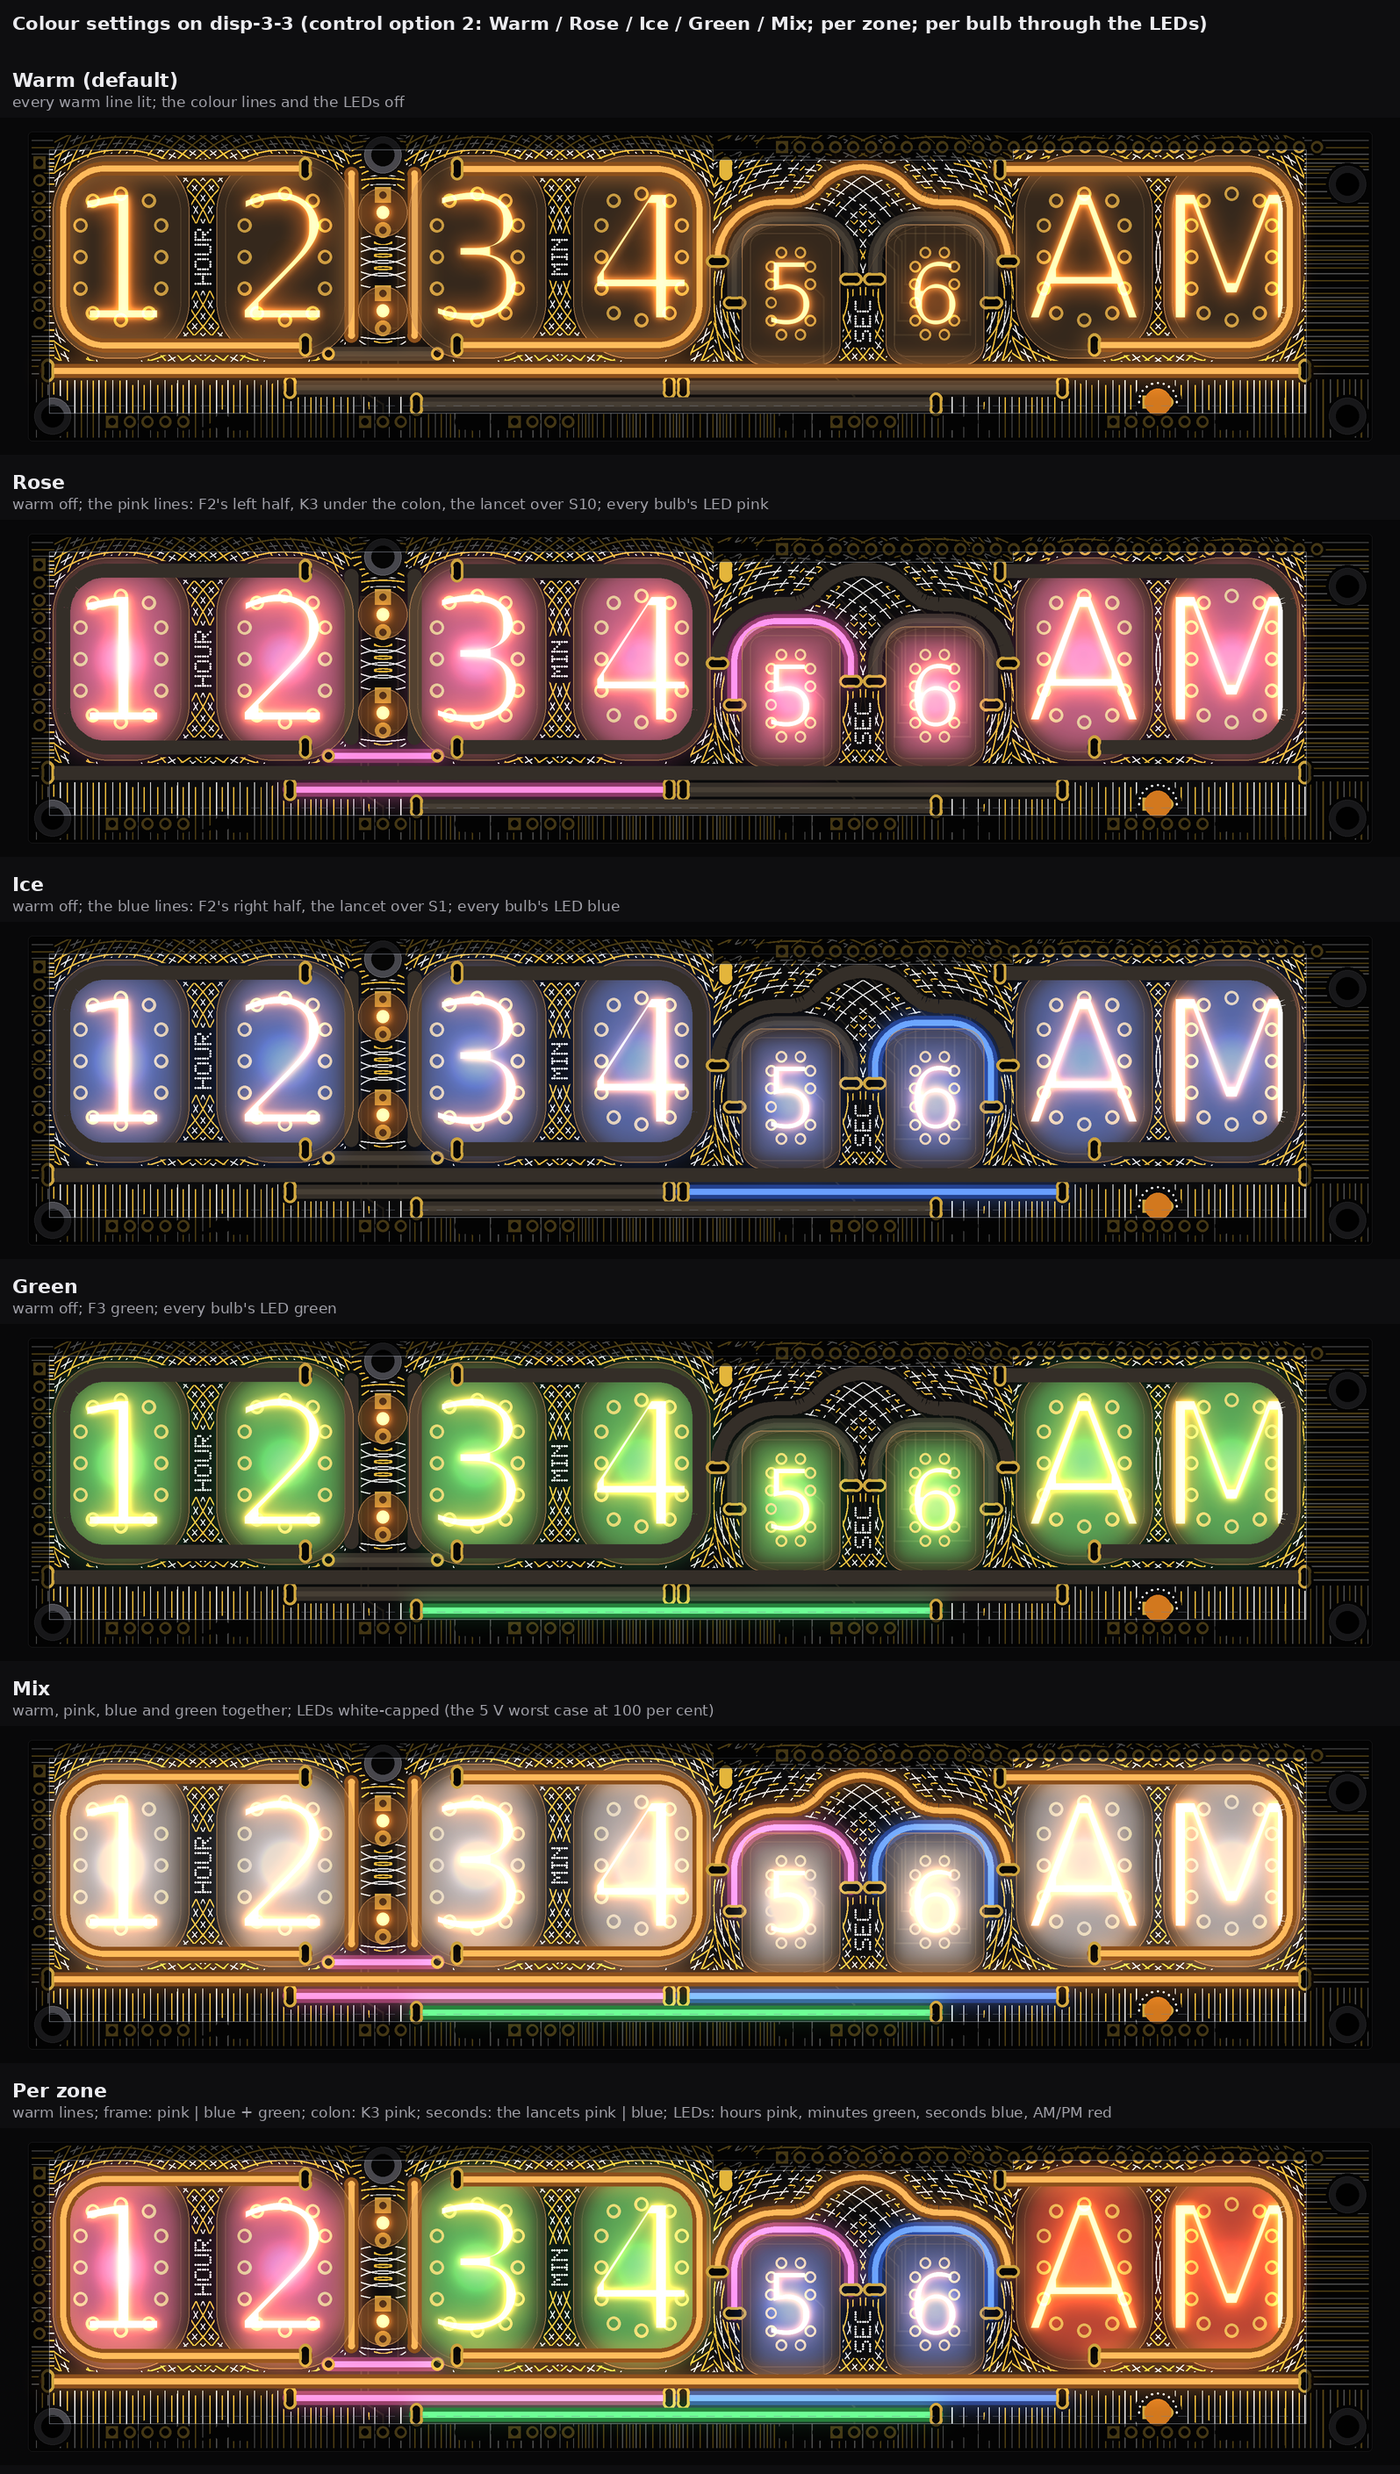
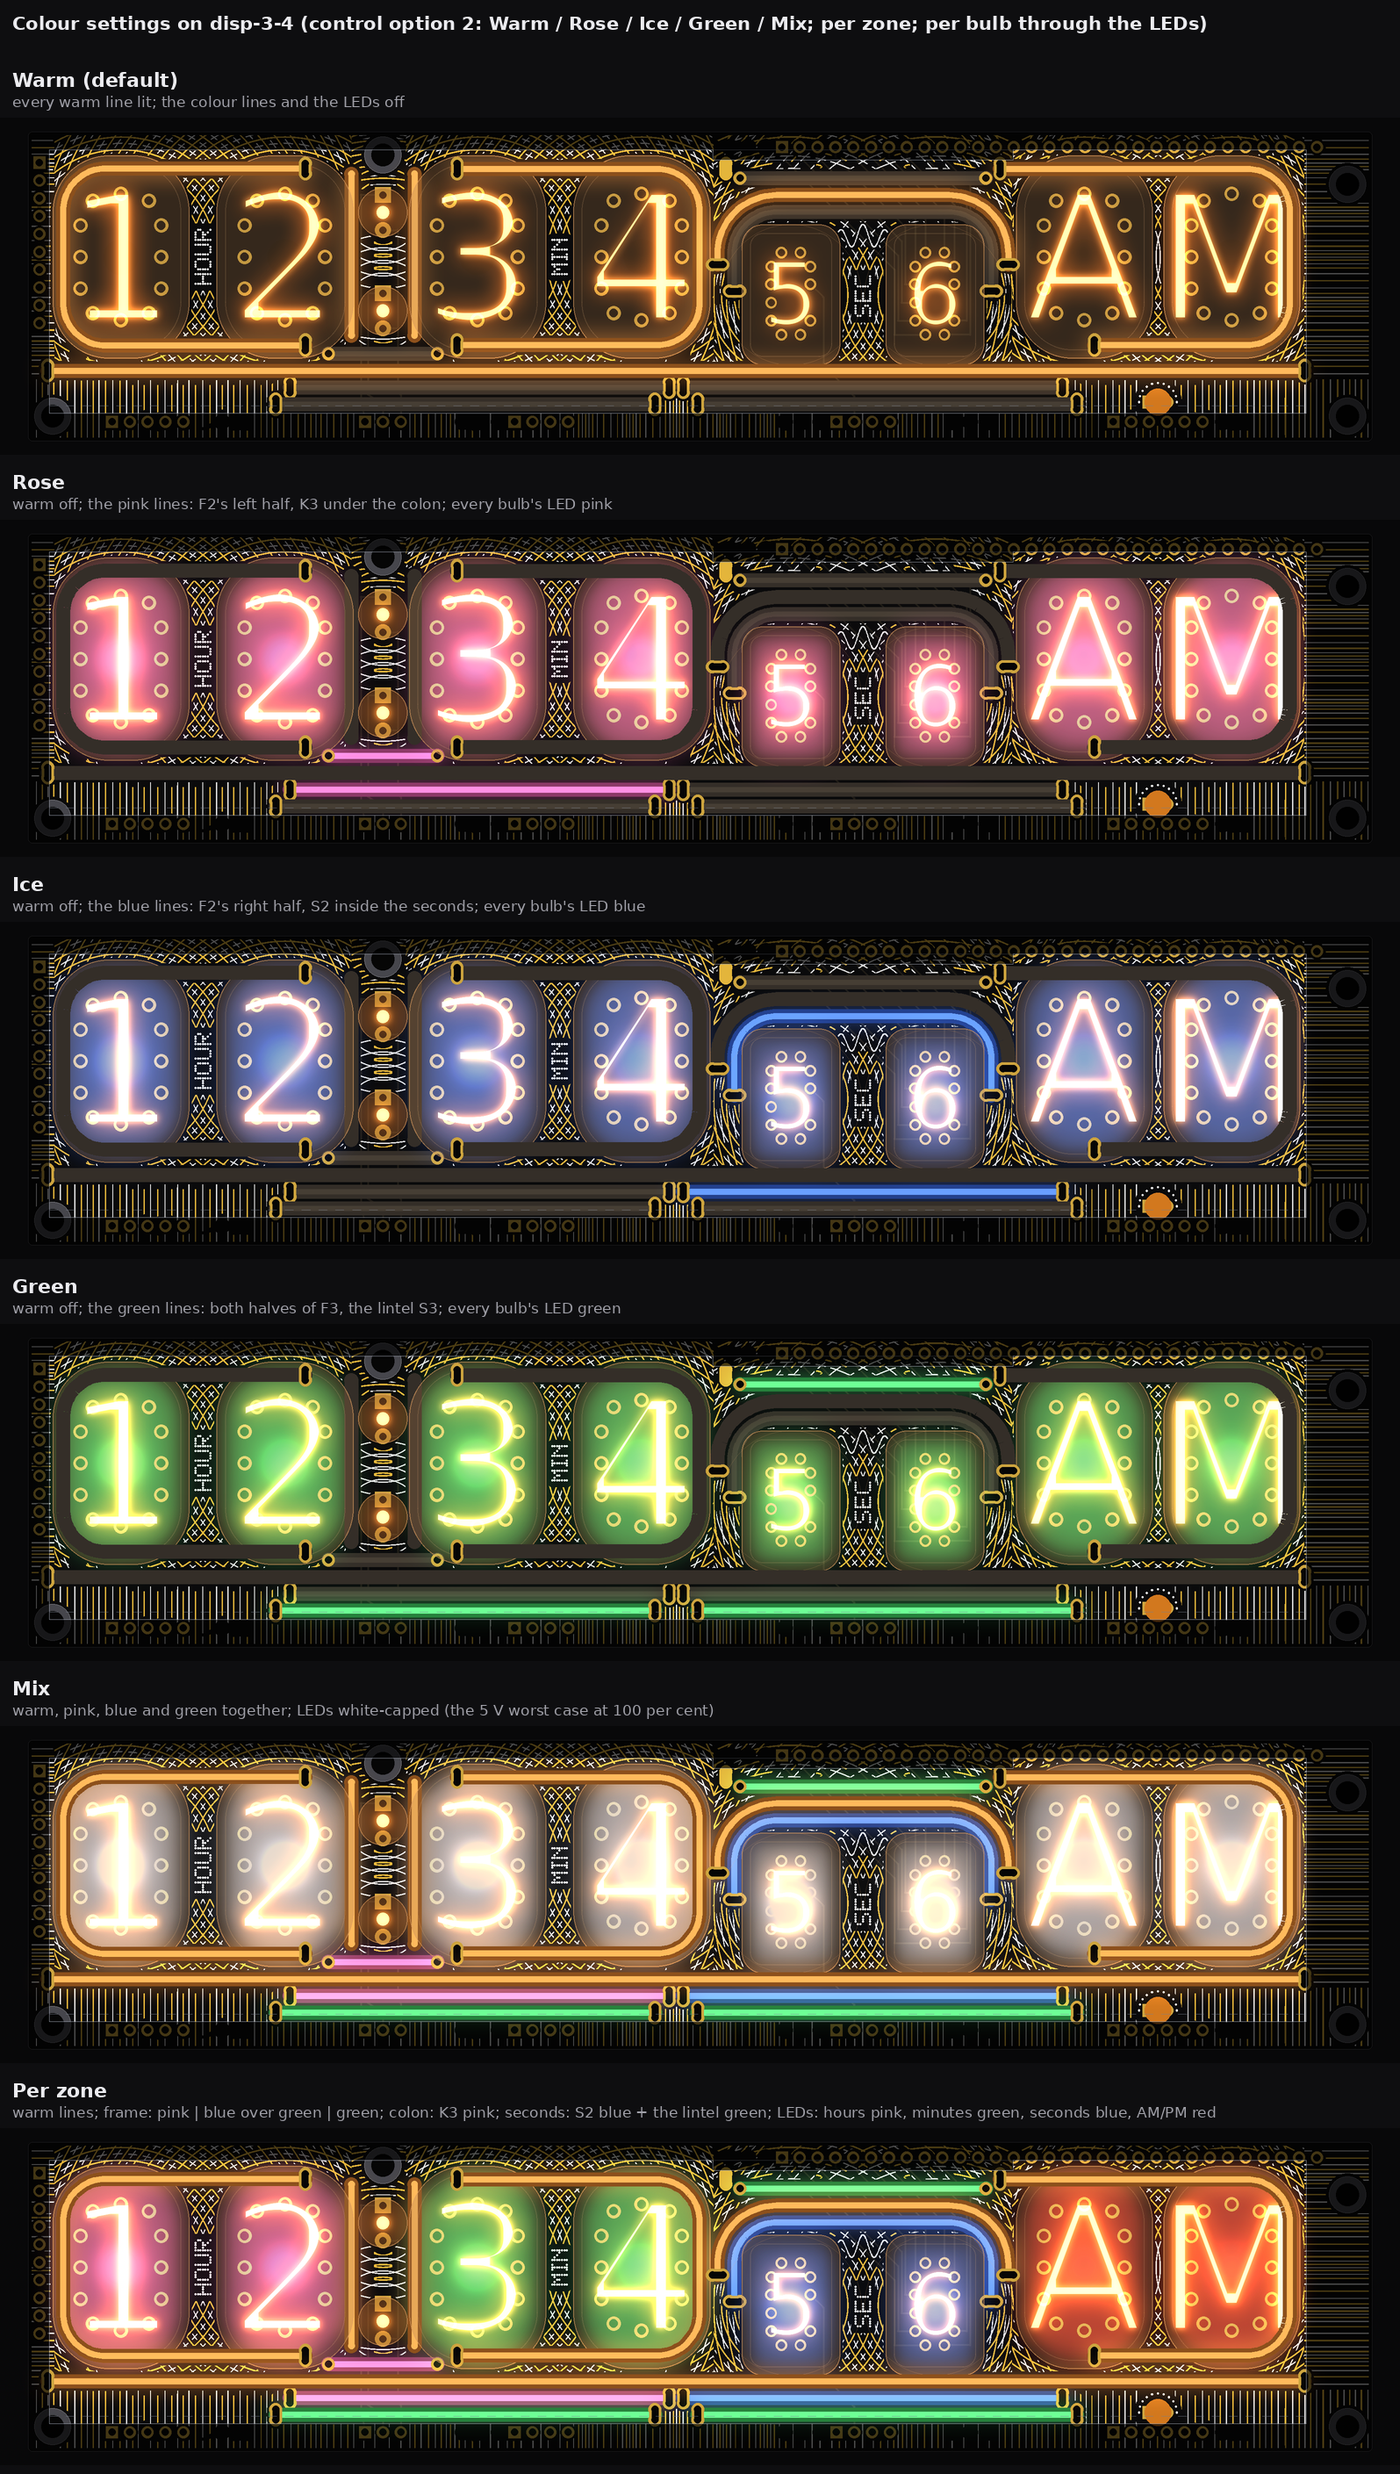
PCB/art: TS06 DISP final 3, disp-3-4: the lintel with F3 split in two 60 flex, green (drawings only)
F3 = 60 + 60 (80 + 80 hits the m lamp and XP21's 185 V pad), split 6.1 so its
slots clear F2's; F3R driven from the spare XP12.13; sill 1.1 lower as before.
colours.png and the contact sheet redone for the new pick.

Claude-Session: https://claude.ai/code/session_01WoV3gyAFgmtuk6W6Dr4bdA

diff --git a/PCB/art/TS06-DISP-final-3.md b/PCB/art/TS06-DISP-final-3.md
@@ -24,6 +24,13 @@ the router on it or the drawn raster (0.043 mm pixels); *inferred* is arithmetic
 * **Channels: 17, 18, 18 of 16.** Sharing one channel per colour brings every variant to **15**.
 * **5 V worst case: 832 / 852 / 852 mA**, and 640 / 660 / 660 mA with the LED cap.
 * **My pick: disp-3-3, the lancets.**
+* **Follow-up (the owner, 23:1x UTC): disp-3-4 is now the pick.** The owner chose the lintel (disp-3-2) and asked to keep F3,
+  extend it and split it too.
+  * **60 + 60 is the longest symmetric pair.** 80 + 80 runs into the m lamp and XP21's 185 V pad.
+  * Both halves stay green. Their split is 6.1 wide, so their slots clear F2's.
+  * The sill stays 1.1 lower, with no other case change.
+  * 19 channels one per line, 15 one per colour. 5 V 872 mA (680 with the cap).
+  * Section 5's last subsection.
 
 ## 1. Split F2 in two colours (all three variants)
 
@@ -124,17 +131,17 @@ with its legs at 100.60 / 137.17. Rules as before: body 2.0, 0.4 to pin pads, 0.
 
 ## 4. Channels and 5 V
 
-| | V1r-1 (approved) | disp-3-1 | disp-3-2 | disp-3-3 |
-|---|---|---|---|---|
-| DISP warm (H, colon Q1 + Q2, M, S, P, F) | 6 | 6 | 6 | 6 |
-| DISP colour lines | 3 (F2, S2, F3) | 5 (F2L, F2R, F3, K3, S2) | 6 (+ S3) | 6 (F2L, F2R, F3, K3, S2L, S2R) |
-| Fascia (new connector) | 6 | 6 | 6 | 6 |
-| **Channels, one per line** | **15** | **17** | **18** | **18** |
-| **Channels, one per colour (option a)** | 14 | **15** | **15** | **15** |
-| DISP filaments; 120 R on DRV (one per filament) | 10; 20 | 12; 22 | 13; 23 | 13; 23 |
-| DISP drive pins / wires | BL_A1 to A8 | + XP25.3, + K3's wire | + XP12.12 | + XP12.13 |
-| 5 V, Mix at 100 %, 20 mA a filament, LEDs full white | 792 mA, 79 % | 832 mA, 83 % | 852 mA, 85 % | 852 mA, 85 % |
-| 5 V with the LED cap (R + G + B <= 255) | 600 mA, 60 % | 640 mA, 64 % | 660 mA, 66 % | 660 mA, 66 % |
+| | V1r-1 (approved) | disp-3-1 | disp-3-2 | disp-3-3 | disp-3-4 |
+|---|---|---|---|---|---|
+| DISP warm (H, colon Q1 + Q2, M, S, P, F) | 6 | 6 | 6 | 6 | 6 |
+| DISP colour lines | 3 (F2, S2, F3) | 5 (F2L, F2R, F3, K3, S2) | 6 (+ S3) | 6 (F2L, F2R, F3, K3, S2L, S2R) | 7 (disp-3-2 with F3L, F3R) |
+| Fascia (new connector) | 6 | 6 | 6 | 6 | 6 |
+| **Channels, one per line** | **15** | **17** | **18** | **18** | **19** |
+| **Channels, one per colour (option a)** | 14 | **15** | **15** | **15** | **15** (16 with a white half) |
+| DISP filaments; 120 R on DRV (one per filament) | 10; 20 | 12; 22 | 13; 23 | 13; 23 | 14; 24 |
+| DISP drive pins / wires | BL_A1 to A8 | + XP25.3, + K3's wire | + XP12.12 | + XP12.13 | + XP12.12, + XP12.13 |
+| 5 V, Mix at 100 %, 20 mA a filament, LEDs full white | 792 mA, 79 % | 832 mA, 83 % | 852 mA, 85 % | 852 mA, 85 % | 872 mA, 87 % |
+| 5 V with the LED cap (R + G + B <= 255) | 600 mA, 60 % | 640 mA, 64 % | 660 mA, 66 % | 660 mA, 66 % | 680 mA, 68 % |
 
 *Inferred* from `TS06-DISP-final.md` section 3c: each filament adds 20 mA. The module is U14, 5 V, 1.0 A. XP12.11 stays spare.
 
@@ -205,7 +212,7 @@ warm default on top and every colour line lit below, with the LEDs off.
 * **Colour settings:** Warm / Rose / Ice / Green / Mix. Green = F3 and S3. The seconds zone takes Ice (S2), Green (S3) or both.
 * **Buildable? Needs X:** the common list, plus S's and S2's slots moved, S3's holes and track, and the DRV side of XP12.12.
 
-### disp-3-3 Two lancets under the lobe (my pick)
+### disp-3-3 Two lancets under the lobe (the first pick)
 
 ![disp-3-3](TS06-DISP-final-3/disp-3-3-lancets.png)
 
@@ -234,9 +241,64 @@ warm default on top and every colour line lit below, with the LEDs off.
 * **Buildable? Needs X:** the common list, plus the lancets' slots, the shared pad, S2R's F.Cu track, the DRV side of XP12.13, and
   SEC moved.
 
-![Colour settings on disp-3-3](TS06-DISP-final-3/colours.png)
+![Detail of disp-3-3](TS06-DISP-final-3/detail-2x.png)
 
-![Detail](TS06-DISP-final-3/detail-2x.png)
+### disp-3-4 The lintel, and F3 split too (my pick; the owner's follow-up)
+
+The owner, 23:1x UTC: "lintel over arch looks good ... on disp3: keep the green line, extend iand split in two also?" The base is
+disp-3-2. F3, the bottom green line, becomes longer and splits in two, as F2 does.
+
+![disp-3-4](TS06-DISP-final-3/disp-3-4-lintel-split-green.png)
+
+**The search** (*measured* with the body and slot checks, row y 38.8 and a nudged row y 39.0; each pair centred on F's centre and
+mirrored on it):
+
+| Pair (sold flex), split width between the inner slots | Result |
+|---|---|
+| 95 + 95 | No: the slots fall past the board edge and into the screw keep-outs |
+| 80 + 80, any split | No: the right body crosses HL9, the m lamp (-2.6). At a 2.0 split the left slot is 0.02 from XP21.3 (ANODE_H10, 185 V; rule 0.8) and on its track; the right slot is on XP25.6 |
+| **60 + 60, 2.0** (F2's own split) | No: each slot lands right under one of F2's. The pads overlap by 0.9 and the inner holes touch |
+| **60 + 60, 6.1** | **Fits: the smallest split that clears F2's slots.** Span x 35.26 to 149.36 → **drawn** |
+| 60 + 60, 10.2 | Fits: span 33.21 to 151.41, but the dark gap at the centre grows to 14.2 |
+| 60 + 60, 14.3 | No: the right slot is 0.03 from XP25.1 (rule 0.25) |
+| Row y 39.0 | The same results. The bodies come 0.45 from XP24.1 and need the sill 1.3 lower: no gain, so the row stays at y 38.8 |
+| Widen F2's split instead (6.1) and keep F3's at 2.0 | Fits, and F3 then steps in 2.05 inside F2. Not drawn: it changes the approved F2 |
+
+* **Creative decision:** F3 becomes F2's twin in form, two 60s split on F's centre, but stays one colour. The bottom two lines read
+  pink | blue over green | green. The lintel (green) still ties the seconds to the frame.
+* **Symmetric**, exactly, on F's centre (x 92.305). Each green half is F2's half moved 2.05 outwards: the slots stagger, so the green
+  ends show 2.05 past F2's ends.
+* **Filaments:**
+  * F3L: 60 flex, green. Slots (35.255, 38.80) on BL_K and (89.255, 38.80), driven.
+  * F3R: 60 flex, green. Slots (95.355, 38.80) on BL_K and (149.355, 38.80), driven.
+  * The single F3 (80) and its slots (55.31, 38.80) and (129.31, 38.80) go.
+  * The dark gap at the centre is 10.1 (F2's is 6.0).
+  * Checks (*measured*):
+    * body: 0.4 to F2, 2.8 to F; 9.98 / 10.02 to the pin pads; 0.65 to XP23.1 / XP24.1 (rule 0.3); 8.65 to HL9's flange;
+    * slots: 0.44 to each of F2's slot pads (rule 0.25). F3R's inner slot and F2R's are both on BL_K, with a 1.05 web between the
+      holes;
+    * slots to board copper: 5.60 or more (F3L), 3.54 (F3R to XP25.1); 7.79 to ANODE_H1 (D6).
+* **The sill and the case:** unchanged from V1r-1. F3 stays in its row, its bodies end at y 39.8, and the sill at y 40.1 (1.1 lower
+  than today) shows them whole. The halves end at x 35.3 and 149.4, inside the window (x 3.0 to 182.0). **No other case change.**
+* **Drive** (*measured*, router):
+  * F3L keeps **BL_A4** at its inner slot, on B.Cu: (76.9, 41.3), (86.8, 41.3), (89.255, 38.8); 13.4 mm.
+  * F3R takes the spare **XP12.13**, as the new net BL_A11, on B.Cu: down the right side of the seconds and past AM's left edge,
+    (137.83, 2.2), (139.5, 3.7), (139.7, 4.1), (139.7, 16.4), (141.7, 18.7), (141.7, 33.4), (146.7, 38.4), (149.1, 38.5),
+    (149.355, 38.8); 42.9 mm. No harness wire is needed. On F.Cu the route is 41.5 mm, but it would cut the pour; B.Cu is drawn.
+  * F2L's BL_A2 and F2R's BL_A9 re-route round the new slots, 17.2 mm each.
+  * XP12.11 is the last spare pin.
+* **Colours:** **green | green, recommended.** The split is there for length; one colour keeps F3 one line under F2's two-tone.
+  * **Inset:** the right half white (the only sold flex colour left that is far from warm; red sits by the neon, and yellow is the
+    warm). It reads cold beside blue, and it breaks the bottom into four colours. Not recommended.
+* **Channels: 19 one per line; 15 one per colour** (Green = F3L, F3R and S3; 16 with a white half). Over 16 one per line: section 4's
+  options (a) to (c).
+* **5 V:** **872 mA, 87 %; 680 mA, 68 % with the LED cap** (*inferred*, 20 mA a filament). The 1.0 A module holds it.
+* **Colour settings:** Warm / Rose / Ice / Green / Mix. Rose = F2L and K3. Ice = F2R and S2. Green = F3L, F3R and S3. Per zone, the
+  frame takes Rose, Ice or Green, and the seconds Ice or Green.
+* **White / gold:** refined V1, yielding round the new slots. White about 1.4 m, gold about 1.6 m.
+* **Buildable? Needs X:** disp-3-2's list, plus section 6's G1 to G6.
+
+![Colour settings on disp-3-4](TS06-DISP-final-3/colours.png)
 
 ## 6. The change-list delta against TS06-DISP-final-2.md
 
@@ -279,28 +341,46 @@ V1r-2's C1 to C4 are replaced by D5 to D9 below.
 | F6 | Art | The fine collapse curve is dropped (the lancets fill its place) | | *measured* |
 | F7 | DRV | The mate of XP12.13 to its channel | | *inferred* |
 
+**disp-3-4 only** (on disp-3-2's E1 to E4):
+
+| # | Board | Change | Check | Mark |
+|---|---|---|---|---|
+| G1 | DISP | F3's slots (55.31, 38.80) and (129.31, 38.80) go (V1r-1 item B1). New slots: F3L (35.255, 38.80) on BL_K and (89.255, 38.80), driven BL_A4; F3R (95.355, 38.80) on BL_K and (149.355, 38.80), driven BL_A11 | 0.44 to F2's slot pads; 3.54 to XP25.1 | *measured* |
+| G2 | DISP | BL_A4 (B.Cu): (76.9, 41.3), (86.8, 41.3), (89.255, 38.8); 13.4 mm. It replaces V1r-1's B2 | router | *measured* |
+| G3 | DISP | XP12.13 becomes BL_A11: B.Cu (137.83, 2.2), (139.5, 3.7), (139.7, 4.1), (139.7, 16.4), (141.7, 18.7), (141.7, 33.4), (146.7, 38.4), (149.1, 38.5), (149.355, 38.8); 42.9 mm | router | *measured* |
+| G4 | DISP | BL_A2 (F2L): (22.1, 41.3), (30.1, 41.3), (34.5, 36.9), (37.0, 36.7), (37.305, 36.4); BL_A9 (F2R): (159.63, 41.3), (157.6, 43.1), (154.0, 43.1), (153.3, 42.4), (153.3, 40.1), (150.1, 36.9), (147.6, 36.7), (147.305, 36.4); 17.2 mm each. They replace D2 and D3 | router | *measured* |
+| G5 | DRV | One more 120 R (24) and, one per line, the 19th channel (section 4 (a) to (c)); the mate of XP12.13 to its channel | room not checked | *inferred* |
+| G6 | Case | None beyond V1r-1's B4 (sill 1.1 lower) | F3's bodies end at y 39.8; sill 40.1 | *inferred* |
+
 ## 7. The checks
 
 *Measured* on the drawn rasters against DISP's board file, with pass 2's body and slot checks and router.
 
-| Check | Rule | V1r-1 | disp-3-1 | disp-3-2 | disp-3-3 |
-|---|---|---|---|---|---|
-| Gold to 185 V F.Cu tracks / pads | 0.6 / 0.8 | 0.67 / 0.84 | 0.67 / 0.84 | 0.67 / 0.84 | 0.67 / 0.84 |
-| Gold to the new F.Cu tracks | 0.35 | | 0.39 | 0.39 | 0.36 |
-| Art to the glass and the colon lamps | 0.3 | 0.31 | 0.31 | 0.31 | 0.31 |
-| Art to the names and the m lamp's ring | own ground | 0.52 | 0.52 | 0.52 | 0.52 |
-| White to gold | 0.15 break | 0.22 | 0.22 | 0.22 | 0.22 |
-| Largest empty spot in the window (radius) | "no empty space" | 0.96 | 0.96 | 0.96 | 0.96 |
-| Line to line (the new lines) | 0.4 | 0.4 | 0.4 (F2 to F, F3; K3 to F) | 0.4 (S3 to S); 0.41 (S3 to P) | 0.4 (lancets to S); 1.4 between their inner legs |
-| Slot or hole pads of different nets | 0.25 | | 0.2 / 0.1 are same-net (BL_K) pairs | 0.30 (S3 to P) | same-net pairs only |
-| 185 V copper to a new slot, hole or track | 0.6 / 0.8 | 0.80 (pass 2's ANODE_H1 to H's slot) | 0.73 (new ANODE_H1 to V2.8), 1.09 (to H's slot) | same | same |
+| Check | Rule | V1r-1 | disp-3-1 | disp-3-2 | disp-3-3 | disp-3-4 |
+|---|---|---|---|---|---|---|
+| Gold to 185 V F.Cu tracks / pads | 0.6 / 0.8 | 0.67 / 0.84 | 0.67 / 0.84 | 0.67 / 0.84 | 0.67 / 0.84 | 0.67 / 0.84 |
+| Gold to the new F.Cu tracks | 0.35 | | 0.39 | 0.39 | 0.36 | 0.39 |
+| Art to the glass and the colon lamps | 0.3 | 0.31 | 0.31 | 0.31 | 0.31 | 0.31 |
+| Art to the names and the m lamp's ring | own ground | 0.52 | 0.52 | 0.52 | 0.52 | 0.52 |
+| White to gold | 0.15 break | 0.22 | 0.22 | 0.22 | 0.22 | 0.22 |
+| Largest empty spot in the window (radius) | "no empty space" | 0.96 | 0.96 | 0.96 | 0.96 | 0.78 |
+| Line to line (the new lines) | 0.4 | 0.4 | 0.4 (F2 to F, F3; K3 to F) | 0.4 (S3 to S); 0.41 (S3 to P) | 0.4 (lancets to S); 1.4 between their inner legs | 0.4 (F3 to F2) |
+| Slot or hole pads of different nets | 0.25 | | 0.2 / 0.1 are same-net (BL_K) pairs | 0.30 (S3 to P) | same-net pairs only | 0.44 (F3 to F2); 0.30 (S3 to P) |
+| 185 V copper to a new slot, hole or track | 0.6 / 0.8 | 0.80 (pass 2's ANODE_H1 to H's slot) | 0.73 (new ANODE_H1 to V2.8), 1.09 (to H's slot) | same | same | same; 7.79 (ANODE_H1 to F3L) |
 
 The largest empty spot (50.3, 38.7) is V1r-1's: the newly shown sill strip under the colon, where the 185 V colon tracks cut the
-gold on both sides.
+gold on both sides. In disp-3-4 F3L's body covers that strip, and the largest spot (0.78) is at (6.6, 32.0), by the left end.
 
 ## 8. My pick
 
-**disp-3-3, the lancets.** It does all three things the owner asked:
+**Now disp-3-4: the lintel with F3 split too.** It is the owner's choice (the lintel over the squared arch) with the owner's follow-up
+(F3 longer and split). Its cost over disp-3-2:
+* one channel (19 one per line, 15 one per colour);
+* 20 mA;
+* one spare pin (XP12.13);
+* no further case change.
+
+**The first pick, kept for the record: disp-3-3, the lancets.** It does all three things the owner asked:
 * F2 in two colours;
 * the colon floor;
 * longer split pieces in the seconds;
